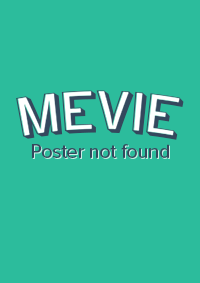
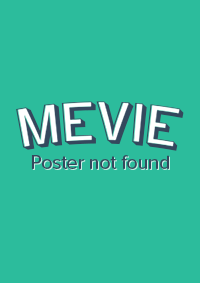
Fix poster, don't add duplicate tags

Changed region(s): [[0.06, 0.311, 0.93, 0.6219]]

diff --git a/best_api/templates/movie_list.html b/best_api/templates/movie_list.html
@@ -27,7 +27,7 @@
     <div class="row movies" ng-cloak>
         <div class="col-sm-3 col-md-2 movie" ng-repeat="movie in movies | tagsFilter:tagFilters">
             <div class="movie-poster">
-                <img ng-src="{{movie.poster}}" class="img-responsive" />
+                <img ng-src="{{movie.poster || '/static/images/default_poster.png'}}" class="img-responsive" />
             </div>
             <h4 class="movie-title">{{movie.title}} ({{movie.year}})</h4>
             <div class="tags" ng-if="movie.tags.length != 0">

diff --git a/best_api/static/js/app.js b/best_api/static/js/app.js
@@ -55,7 +55,7 @@ mevies.controller('MeviesCtrl', ['$scope', 'Movies', function ($scope, Movies) {
 		});
 
 	$scope.addTagFilter = function(tag) {
-		$scope.tagFilters.push(tag.toLowerCase());
+		if ($scope.tagFilters.indexOf(tag.toLowerCase()) == -1) $scope.tagFilters.push(tag.toLowerCase());
 	}
 
 	$scope.removeTagFilter = function(index) {
